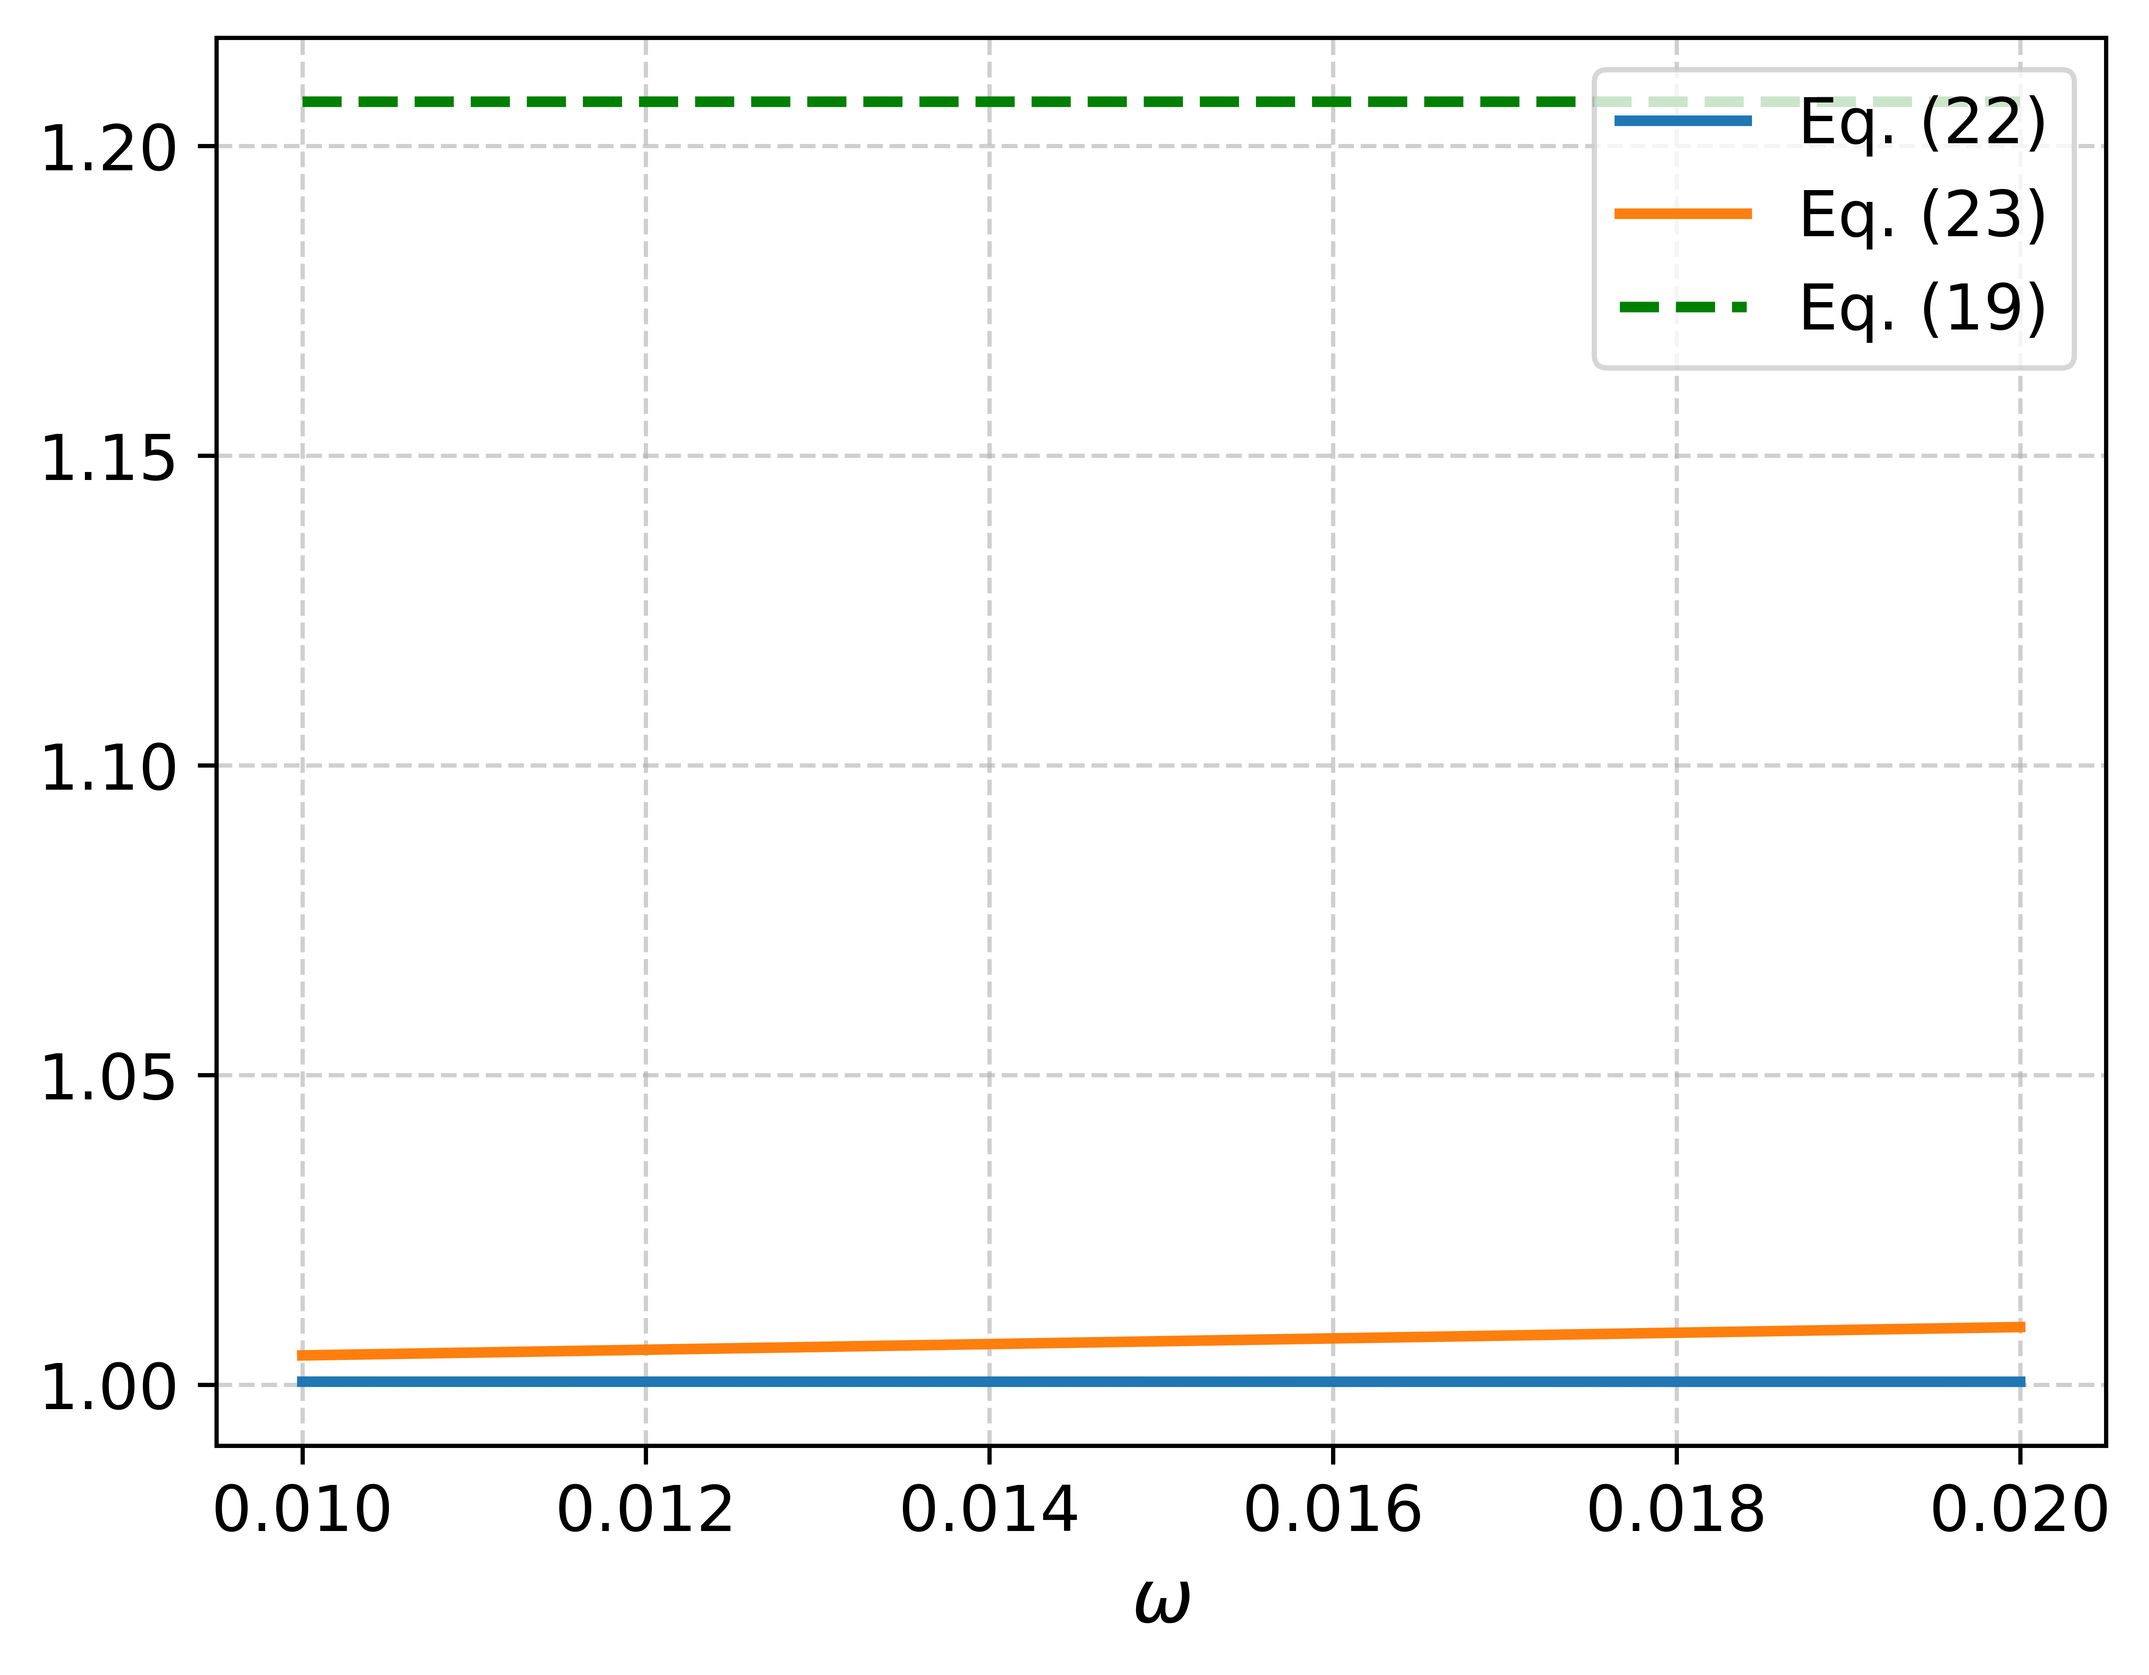
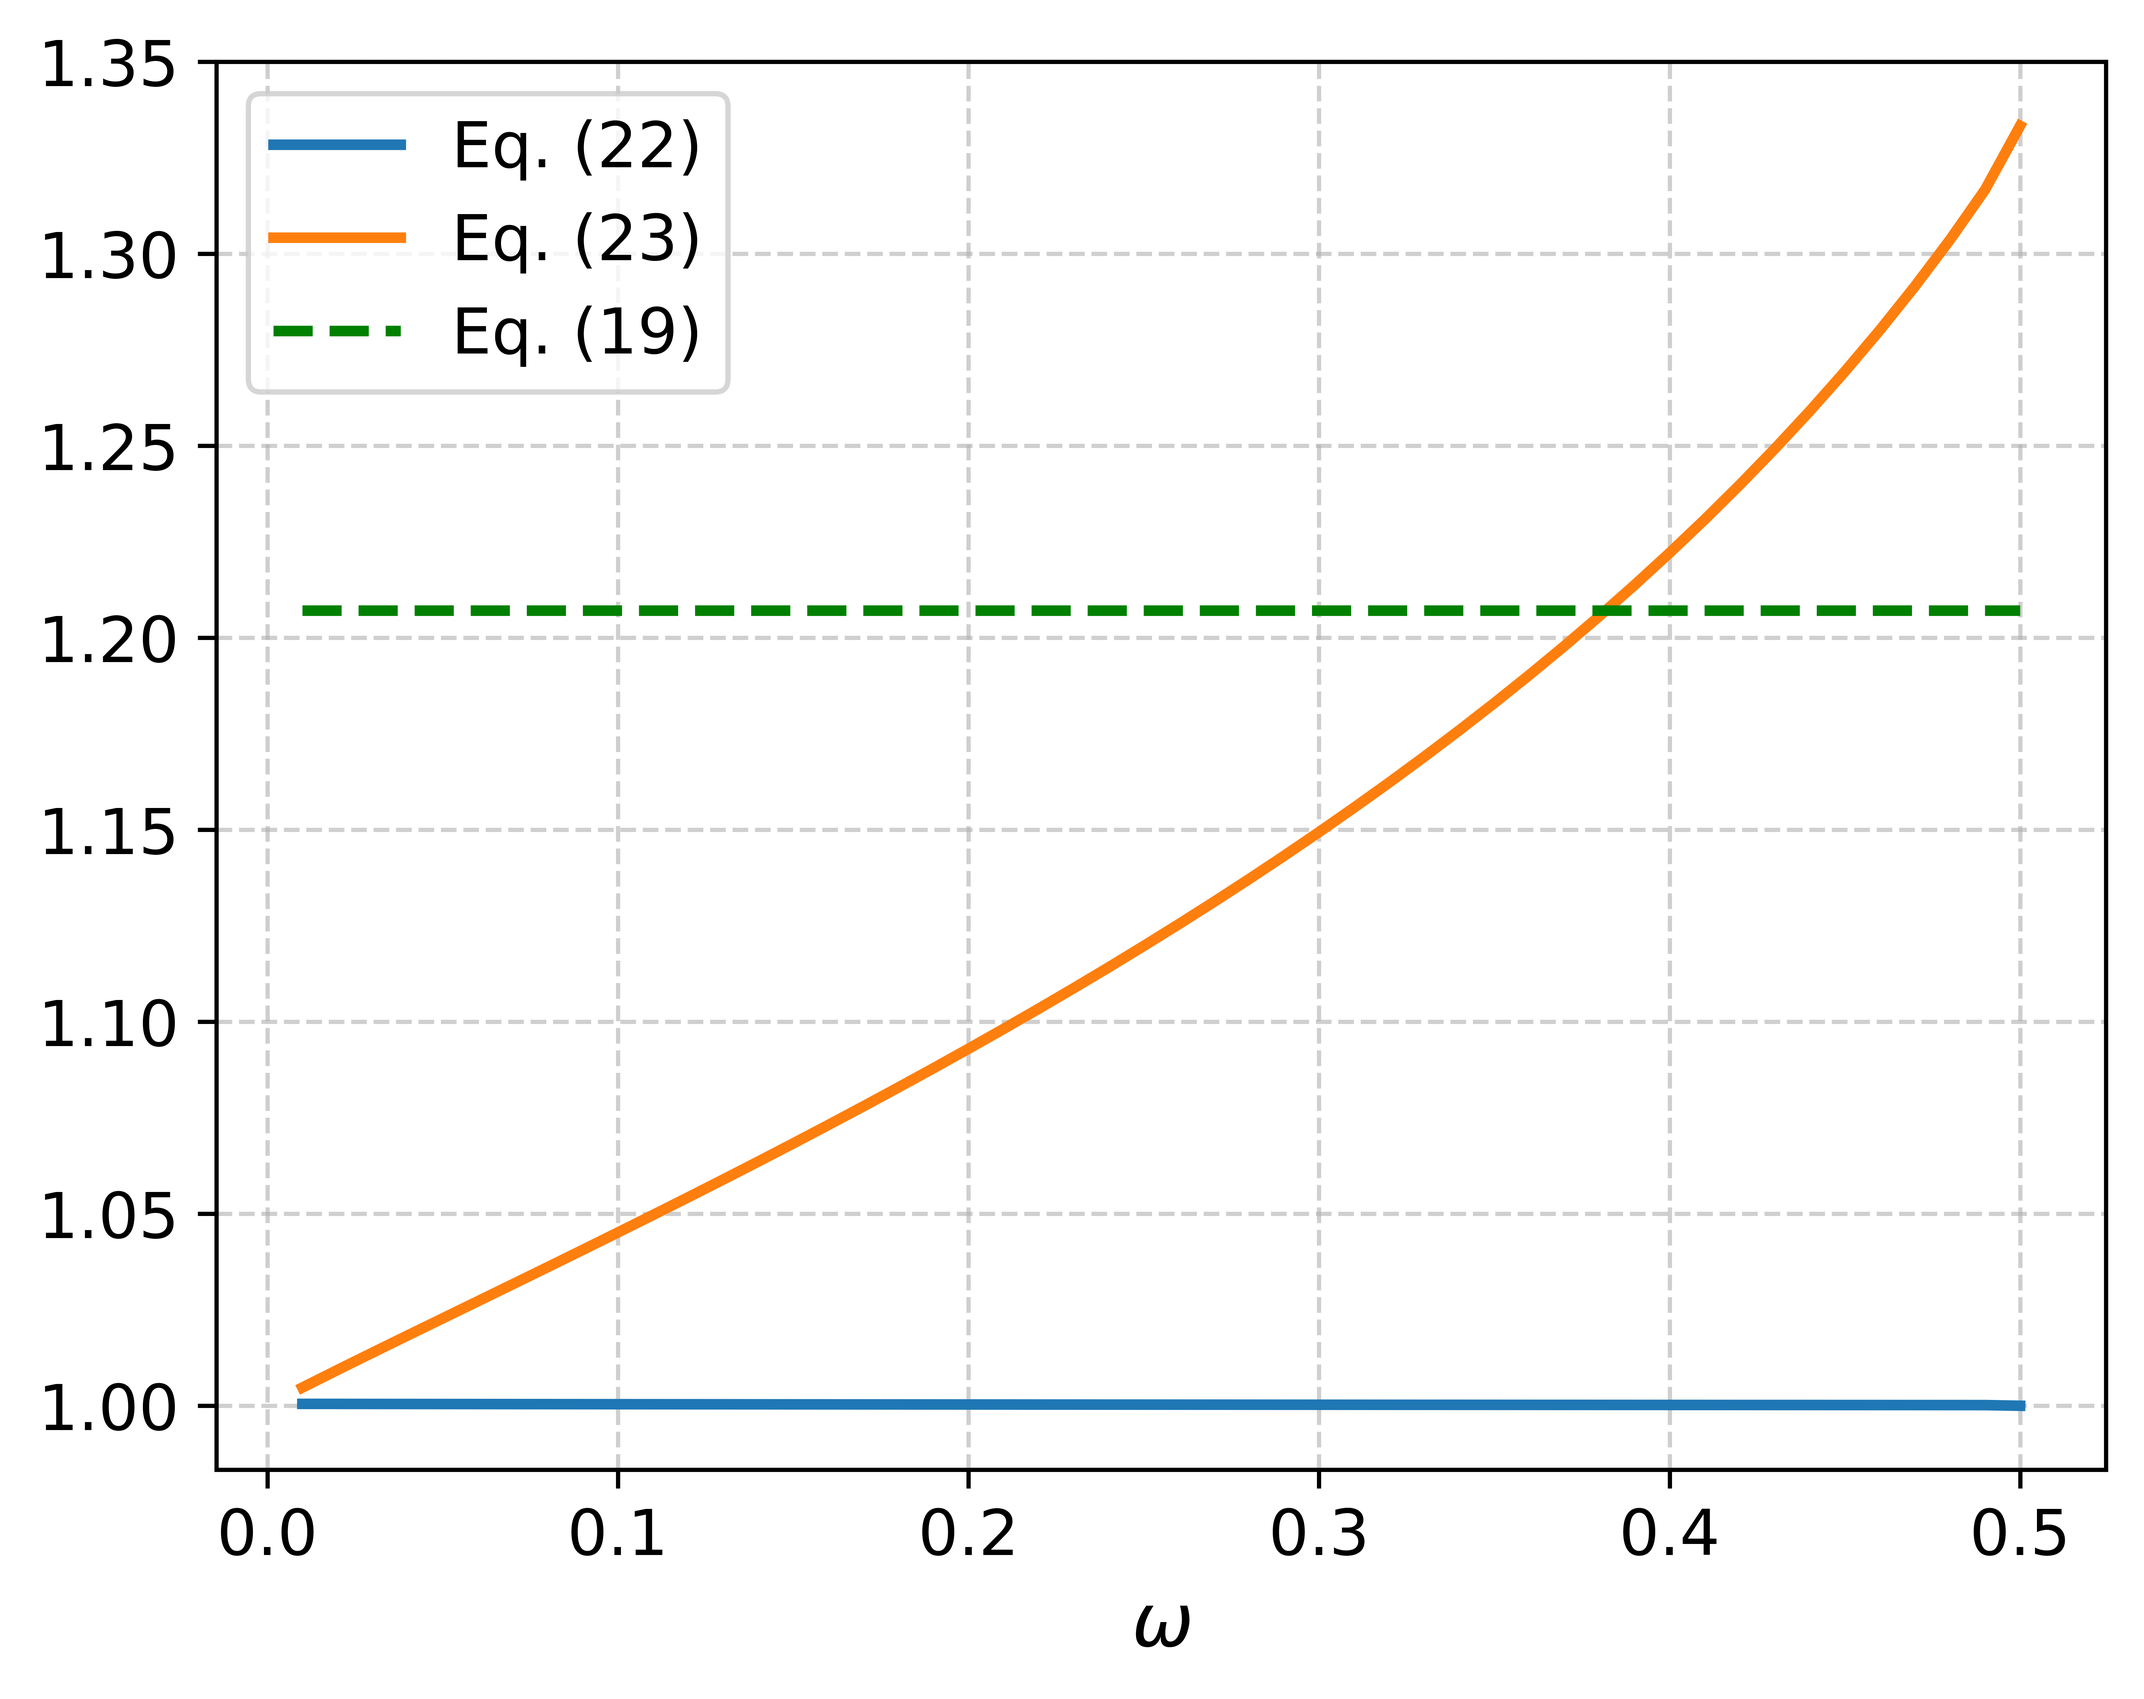
Finished all the plots and data

diff --git a/Channel_discrim_advantage.py b/Channel_discrim_advantage.py
@@ -25,7 +25,7 @@ different distinguishability measures under energy constraints.
 
 if __name__ == "__main__":
     # Parameters
-    omega_num = 2
+    omega_num = 50
     p_values = np.linspace(0.00, 0.002, 3)
     save  = False
 
